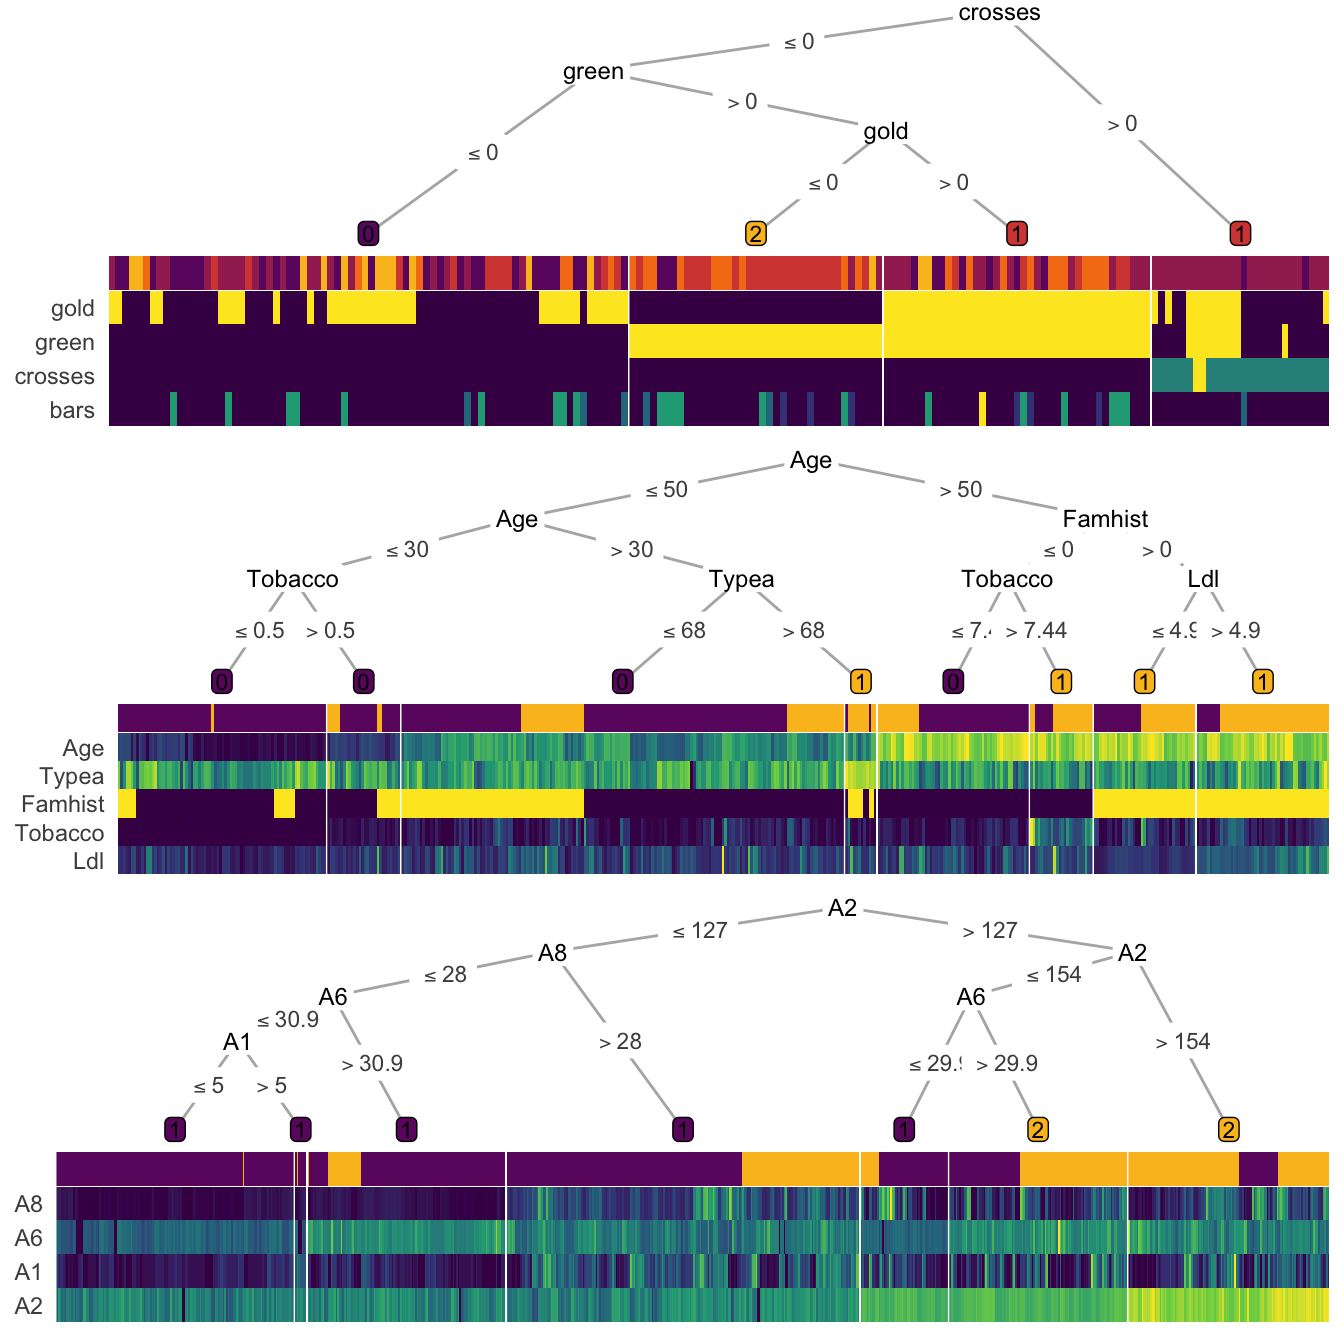
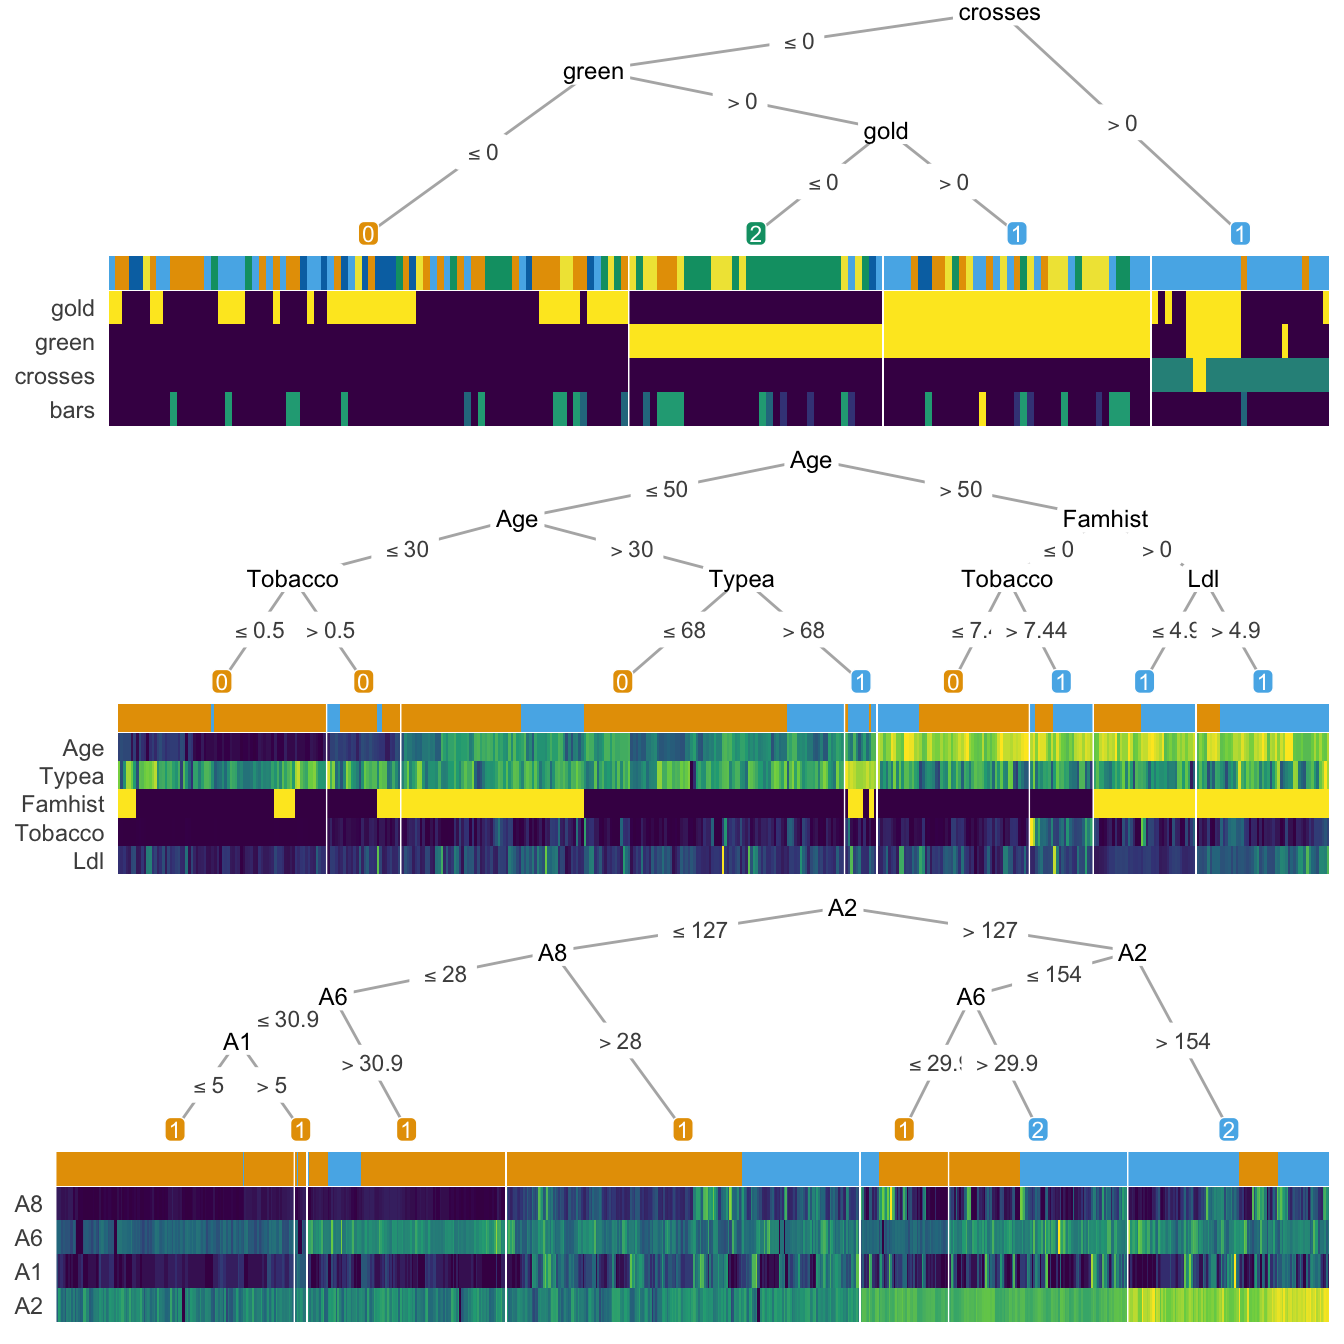
deploy: 593ea3047998c0ccc5a44e14014e985b21e39fae

Changed region(s): [[0.0312, 0.8125, 1.0, 0.9062], [0.0938, 0.5, 1.0, 0.5625], [0.0625, 0.1562, 1.0, 0.2188]]

diff --git a/reference/compute_ctree.html b/reference/compute_ctree.html
@@ -1,0 +1,233 @@
+<!-- Generated by pkgdown: do not edit by hand -->
+<!DOCTYPE html>
+<html lang="en">
+  <head>
+  <meta charset="utf-8">
+<meta http-equiv="X-UA-Compatible" content="IE=edge">
+<meta name="viewport" content="width=device-width, initial-scale=1.0">
+
+<title>Compute decision tree from data set — compute_ctree • treeheatr</title>
+
+
+<!-- jquery -->
+<script src="https://cdnjs.cloudflare.com/ajax/libs/jquery/3.4.1/jquery.min.js" integrity="sha256-CSXorXvZcTkaix6Yvo6HppcZGetbYMGWSFlBw8HfCJo=" crossorigin="anonymous"></script>
+<!-- Bootstrap -->
+<link href="https://cdnjs.cloudflare.com/ajax/libs/bootswatch/3.4.0/flatly/bootstrap.min.css" rel="stylesheet" crossorigin="anonymous" />
+
+
+<script src="https://cdnjs.cloudflare.com/ajax/libs/twitter-bootstrap/3.4.1/js/bootstrap.min.js" integrity="sha256-nuL8/2cJ5NDSSwnKD8VqreErSWHtnEP9E7AySL+1ev4=" crossorigin="anonymous"></script>
+
+<!-- bootstrap-toc -->
+<link rel="stylesheet" href="../bootstrap-toc.css">
+<script src="../bootstrap-toc.js"></script>
+
+<!-- Font Awesome icons -->
+<link rel="stylesheet" href="https://cdnjs.cloudflare.com/ajax/libs/font-awesome/5.12.1/css/all.min.css" integrity="sha256-mmgLkCYLUQbXn0B1SRqzHar6dCnv9oZFPEC1g1cwlkk=" crossorigin="anonymous" />
+<link rel="stylesheet" href="https://cdnjs.cloudflare.com/ajax/libs/font-awesome/5.12.1/css/v4-shims.min.css" integrity="sha256-wZjR52fzng1pJHwx4aV2AO3yyTOXrcDW7jBpJtTwVxw=" crossorigin="anonymous" />
+
+<!-- clipboard.js -->
+<script src="https://cdnjs.cloudflare.com/ajax/libs/clipboard.js/2.0.6/clipboard.min.js" integrity="sha256-inc5kl9MA1hkeYUt+EC3BhlIgyp/2jDIyBLS6k3UxPI=" crossorigin="anonymous"></script>
+
+<!-- headroom.js -->
+<script src="https://cdnjs.cloudflare.com/ajax/libs/headroom/0.11.0/headroom.min.js" integrity="sha256-AsUX4SJE1+yuDu5+mAVzJbuYNPHj/WroHuZ8Ir/CkE0=" crossorigin="anonymous"></script>
+<script src="https://cdnjs.cloudflare.com/ajax/libs/headroom/0.11.0/jQuery.headroom.min.js" integrity="sha256-ZX/yNShbjqsohH1k95liqY9Gd8uOiE1S4vZc+9KQ1K4=" crossorigin="anonymous"></script>
+
+<!-- pkgdown -->
+<link href="../pkgdown.css" rel="stylesheet">
+<script src="../pkgdown.js"></script>
+
+
+
+
+<meta property="og:title" content="Compute decision tree from data set — compute_ctree" />
+<meta property="og:description" content="Compute decision tree from data set" />
+<meta property="og:image" content="https://trang1618.github.io/treeheatr/reference/figures/card.png" />
+<meta property="og:image:alt" content="treeheatr" />
+<meta name="twitter:card" content="summary_large_image" />
+<meta name="twitter:creator" content="@trang1618" />
+<meta name="twitter:site" content="@trang1618" />
+
+
+
+
+<!-- mathjax -->
+<script src="https://cdnjs.cloudflare.com/ajax/libs/mathjax/2.7.5/MathJax.js" integrity="sha256-nvJJv9wWKEm88qvoQl9ekL2J+k/RWIsaSScxxlsrv8k=" crossorigin="anonymous"></script>
+<script src="https://cdnjs.cloudflare.com/ajax/libs/mathjax/2.7.5/config/TeX-AMS-MML_HTMLorMML.js" integrity="sha256-84DKXVJXs0/F8OTMzX4UR909+jtl4G7SPypPavF+GfA=" crossorigin="anonymous"></script>
+
+<!--[if lt IE 9]>
+<script src="https://oss.maxcdn.com/html5shiv/3.7.3/html5shiv.min.js"></script>
+<script src="https://oss.maxcdn.com/respond/1.4.2/respond.min.js"></script>
+<![endif]-->
+
+
+
+  </head>
+
+  <body data-spy="scroll" data-target="#toc">
+    <div class="container template-reference-topic">
+      <header>
+      <div class="navbar navbar-default navbar-fixed-top" role="navigation">
+  <div class="container">
+    <div class="navbar-header">
+      <button type="button" class="navbar-toggle collapsed" data-toggle="collapse" data-target="#navbar" aria-expanded="false">
+        <span class="sr-only">Toggle navigation</span>
+        <span class="icon-bar"></span>
+        <span class="icon-bar"></span>
+        <span class="icon-bar"></span>
+      </button>
+      <span class="navbar-brand">
+        <a class="navbar-link" href="../index.html">treeheatr</a>
+        <span class="version label label-default" data-toggle="tooltip" data-placement="bottom" title="Released version">0.1.0</span>
+      </span>
+    </div>
+
+    <div id="navbar" class="navbar-collapse collapse">
+      <ul class="nav navbar-nav">
+        <li>
+  <a href="../index.html">
+    <span class="fa fa-home"></span>
+     
+  </a>
+</li>
+<li>
+  <a href="../reference/index.html">Documentation</a>
+</li>
+<li>
+  <a href="../articles/explore.html">Vignette</a>
+</li>
+      </ul>
+      <ul class="nav navbar-nav navbar-right">
+        <li>
+  <a href="https://github.com/trang1618/treeheatr">
+    <span class="fa fa-github"></span>
+     
+  </a>
+</li>
+<li>
+  <a href="https://twitter.com/trang1618">
+    <span class="fa fa-twitter"></span>
+     
+  </a>
+</li>
+      </ul>
+      
+    </div><!--/.nav-collapse -->
+  </div><!--/.container -->
+</div><!--/.navbar -->
+
+      
+
+      </header>
+
+<div class="row">
+  <div class="col-md-9 contents">
+    <div class="page-header">
+    <h1>Compute decision tree from data set</h1>
+    
+    <div class="hidden name"><code>compute_ctree.Rd</code></div>
+    </div>
+
+    <div class="ref-description">
+    <p>Compute decision tree from data set</p>
+    </div>
+
+    <pre class="usage"><span class='fu'>compute_ctree</span>(
+  <span class='no'>dat</span>,
+  <span class='no'>task</span>,
+  <span class='no'>feat_names</span>,
+  <span class='no'>show_all_feats</span>,
+  <span class='no'>clust_samps</span>,
+  <span class='no'>clust_target</span>,
+  <span class='no'>panel_space</span>,
+  <span class='no'>custom_layout</span>,
+  <span class='no'>lev_fac</span>,
+  <span class='no'>p_thres</span>
+)</pre>
+
+    <h2 class="hasAnchor" id="arguments"><a class="anchor" href="#arguments"></a>Arguments</h2>
+    <table class="ref-arguments">
+    <colgroup><col class="name" /><col class="desc" /></colgroup>
+    <tr>
+      <th>dat</th>
+      <td><p>Tidy dataset with dependent variable labelled 'my_target'.</p></td>
+    </tr>
+    <tr>
+      <th>task</th>
+      <td><p>Character string indicating the type of problem,
+either 'classification' (categorical outcome) or 'regression' (continuous outcome).</p></td>
+    </tr>
+    <tr>
+      <th>feat_names</th>
+      <td><p>Character vector specifying the feature names in dat.</p></td>
+    </tr>
+    <tr>
+      <th>show_all_feats</th>
+      <td><p>Logical. If TRUE, show all features regarless p_thres.</p></td>
+    </tr>
+    <tr>
+      <th>clust_samps</th>
+      <td><p>Logical. If TRUE, hierarhical clustering would be performed
+among samples within each leaf node.</p></td>
+    </tr>
+    <tr>
+      <th>clust_target</th>
+      <td><p>Logical. If TRUE, target/label is included in hierarchical clustering
+of samples within each leaf node and might yield a more interpretable heatmap.</p></td>
+    </tr>
+    <tr>
+      <th>panel_space</th>
+      <td><p>Spacing between facets relative to viewport,
+recommended to range from 0.001 to 0.01.</p></td>
+    </tr>
+    <tr>
+      <th>custom_layout</th>
+      <td><p>Dataframe with 3 columns: id, x and y
+for manually input custom layout.</p></td>
+    </tr>
+    <tr>
+      <th>lev_fac</th>
+      <td><p>Relative weight of child node positions
+according to their levels, commonly ranges from 1 to 1.5.
+1 for parent node perfectly in the middle of child nodes.</p></td>
+    </tr>
+    <tr>
+      <th>p_thres</th>
+      <td><p>Numeric value indicating the p-value threshold of feature importance.
+Feature with p-values computed from the decision tree below this value
+will be displayed on the heatmap.</p></td>
+    </tr>
+    </table>
+
+    <h2 class="hasAnchor" id="value"><a class="anchor" href="#value"></a>Value</h2>
+
+    <p>A list of results from `partykit::ctree`, smart layout data,
+terminal data add node labels.</p>
+
+  </div>
+  <div class="col-md-3 hidden-xs hidden-sm" id="pkgdown-sidebar">
+    <nav id="toc" data-toggle="toc" class="sticky-top">
+      <h2 data-toc-skip>Contents</h2>
+    </nav>
+  </div>
+</div>
+
+
+      <footer>
+      <div class="copyright">
+  <p>Developed by Trang Le, Jason Moore.</p>
+</div>
+
+<div class="pkgdown">
+  <p>Site built with <a href="https://pkgdown.r-lib.org/">pkgdown</a> 1.5.1.</p>
+</div>
+
+      </footer>
+   </div>
+
+  
+
+
+  </body>
+</html>
+
+

diff --git a/articles/explore.html b/articles/explore.html
@@ -85,7 +85,7 @@
 </h1>
                         <h4 class="author">Trang Le</h4>
             
-            <h4 class="date">2020-05-08</h4>
+            <h4 class="date">2020-05-11</h4>
       
       
       <div class="hidden name"><code>explore.Rmd</code></div>
@@ -142,13 +142,15 @@
 <div class="sourceCode" id="cb5"><html><body><pre class="r"><span class="fu"><a href="https://rdrr.io/pkg/treeheatr/man/heat_tree.html">heat_tree</a></span>(<span class="no">wine</span>, <span class="kw">target_lab</span> <span class="kw">=</span> <span class="st">'Type'</span>, <span class="kw">target_lab_disp</span> <span class="kw">=</span> <span class="st">'Cultivar'</span>) <span class="kw">%&gt;%</span>
   <span class="kw pkg">grid</span><span class="kw ns">::</span><span class="fu"><a href="https://rdrr.io/r/grid/grid.draw.html">grid.draw</a></span>()</pre></body></html></div>
 <p><img src="explore_files/figure-html/unnamed-chunk-5-1.png" width="672"></p>
-<div class="sourceCode" id="cb6"><html><body><pre class="r"><span class="no">p</span> <span class="kw">&lt;-</span> <span class="fu"><a href="https://rdrr.io/r/base/lapply.html">lapply</a></span>(<span class="fu"><a href="https://rdrr.io/r/base/list.html">list</a></span>(<span class="no">flags</span>, <span class="no">saheart</span>, <span class="no">diabetes</span>),
-            <span class="no">heat_tree</span>,
-            <span class="kw">target_lab</span> <span class="kw">=</span> <span class="st">'target'</span>,
-            <span class="kw">target_lab_disp</span> <span class="kw">=</span> <span class="st">''</span>,
-            <span class="kw">heat_rel_height</span> <span class="kw">=</span> <span class="fl">0.4</span>, <span class="kw">tree_space_bottom</span> <span class="kw">=</span> <span class="fl">0.1</span>,
-            <span class="kw">terminal_vars</span> <span class="kw">=</span> <span class="fu"><a href="https://rdrr.io/r/base/list.html">list</a></span>(<span class="kw">label.padding</span> <span class="kw">=</span> <span class="fu">unit</span>(<span class="fl">0.1</span>, <span class="st">"lines"</span>),
-                                 <span class="kw">size</span> <span class="kw">=</span> <span class="fl">3</span>, <span class="kw">colow</span> <span class="kw">=</span> <span class="st">'white'</span>))
+<div class="sourceCode" id="cb6"><html><body><pre class="r"><span class="no">p</span> <span class="kw">&lt;-</span> <span class="fu"><a href="https://rdrr.io/r/base/lapply.html">lapply</a></span>(
+  <span class="fu"><a href="https://rdrr.io/r/base/list.html">list</a></span>(<span class="no">flags</span>, <span class="no">saheart</span>, <span class="no">diabetes</span>),
+  <span class="no">heat_tree</span>,
+  <span class="kw">target_lab</span> <span class="kw">=</span> <span class="st">'target'</span>,
+  <span class="kw">target_lab_disp</span> <span class="kw">=</span> <span class="st">''</span>,
+  <span class="kw">heat_rel_height</span> <span class="kw">=</span> <span class="fl">0.4</span>, <span class="kw">tree_space_bottom</span> <span class="kw">=</span> <span class="fl">0.1</span>,
+  <span class="kw">terminal_vars</span> <span class="kw">=</span> <span class="fu"><a href="https://rdrr.io/r/base/list.html">list</a></span>(<span class="kw">label.padding</span> <span class="kw">=</span> <span class="fu">unit</span>(<span class="fl">0.1</span>, <span class="st">"lines"</span>), <span class="kw">size</span> <span class="kw">=</span> <span class="fl">3</span>, <span class="kw">color</span> <span class="kw">=</span> <span class="st">'white'</span>),
+  <span class="kw">target_cols</span> <span class="kw">=</span> <span class="fu">scale_fill_manual</span>(
+    <span class="kw">values</span> <span class="kw">=</span> <span class="fu"><a href="https://rdrr.io/r/base/c.html">c</a></span>(<span class="st">"#E69F00"</span>, <span class="st">"#56B4E9"</span>, <span class="st">"#009E73"</span>, <span class="st">"#F0E442"</span>, <span class="st">"#0072B2"</span>, <span class="st">"#D55E00"</span>, <span class="st">"#CC79A7"</span>)))
 
 <span class="kw pkg">cowplot</span><span class="kw ns">::</span><span class="fu"><a href="https://rdrr.io/pkg/cowplot/man/plot_grid.html">plot_grid</a></span>(<span class="kw">plotlist</span> <span class="kw">=</span> <span class="no">p</span>, <span class="kw">ncol</span> <span class="kw">=</span> <span class="fl">1</span>)</pre></body></html></div>
 <p><img src="explore_files/figure-html/unnamed-chunk-6-1.png" width="672"></p>
@@ -157,11 +159,12 @@
 <h2 class="hasAnchor">
 <a href="#smart-node-layout" class="anchor"></a>Smart node layout</h2>
 <p>These extreme visualizations may not be very interpretable but serves the purpose of showing the ability to generalize of the node layout when the tree grows in size. The implemented smart layout weighs the x-position of the parent node according to the level of the child nodes as to avoid crossing of tree branches. This relative weight can be adjusted with the <code>lev_fac</code> parameter in <code><a href="https://rdrr.io/pkg/treeheatr/man/heat_tree.html">heat_tree()</a></code>. The default <code>lev_fac = 1.3</code> seems to provide aesthetically pleasing trees, independent of the tree size.</p>
-<div class="sourceCode" id="cb7"><html><body><pre class="r"># waveform has 5000 observations and 40 features
-# so this computation may take up to a minute or two.
+<div class="sourceCode" id="cb7"><html><body><pre class="r"><span class="co"># waveform has 5000 observations and 40 features</span>
+<span class="co"># so this computation may take up to a minute or two.</span>
 
-# heat_tree(waveform, target_lab = 'target', heat_rel_height = 0.35) %&gt;%
-#   grid::grid.draw()</pre></body></html></div>
+<span class="fu"><a href="https://rdrr.io/pkg/treeheatr/man/heat_tree.html">heat_tree</a></span>(<span class="no">waveform</span>, <span class="kw">target_lab</span> <span class="kw">=</span> <span class="st">'target'</span>, <span class="kw">heat_rel_height</span> <span class="kw">=</span> <span class="fl">0.35</span>) <span class="kw">%&gt;%</span>
+  <span class="kw pkg">grid</span><span class="kw ns">::</span><span class="fu"><a href="https://rdrr.io/r/grid/grid.draw.html">grid.draw</a></span>()</pre></body></html></div>
+<p><img src="explore_files/figure-html/unnamed-chunk-7-1.png" width="864"></p>
 <p>In this next figure, on the top, <code>lev_fac = 1</code> makes parent node perfectly in the middle of child nodes (note a few branch crossing), which contrasts <code>lev_fac = 1.3</code> (default) on the bottom.</p>
 <div class="sourceCode" id="cb8"><html><body><pre class="r"><span class="kw pkg">cowplot</span><span class="kw ns">::</span><span class="fu"><a href="https://rdrr.io/pkg/cowplot/man/plot_grid.html">plot_grid</a></span>(
   <span class="fu"><a href="https://rdrr.io/pkg/treeheatr/man/heat_tree.html">heat_tree</a></span>(<span class="no">wine_quality_red</span>, <span class="kw">target_lab</span> <span class="kw">=</span> <span class="st">'target'</span>, <span class="kw">lev_fac</span> <span class="kw">=</span> <span class="fl">1</span>),
@@ -198,8 +201,6 @@
                  <span class="kw">Fare</span> <span class="kw">=</span> <span class="st">'numeric'</span>,
                  <span class="kw">Embarked</span> <span class="kw">=</span> <span class="st">'factor'</span>)) <span class="kw">%&gt;%</span>
   <span class="kw pkg">grid</span><span class="kw ns">::</span><span class="fu"><a href="https://rdrr.io/r/grid/grid.draw.html">grid.draw</a></span>()
-<span class="co">#&gt; Warning in heat_tree(dat_raw, target_lab = "Survived", label_map = c(`1` =</span>
-<span class="co">#&gt; "Survived", : Character variables are considered categorical.</span>
 <span class="co">#&gt; Warning in cluster::daisy(., metric = "gower"): binary variable(s) 2 treated as</span>
 <span class="co">#&gt; interval scaled</span>
 
